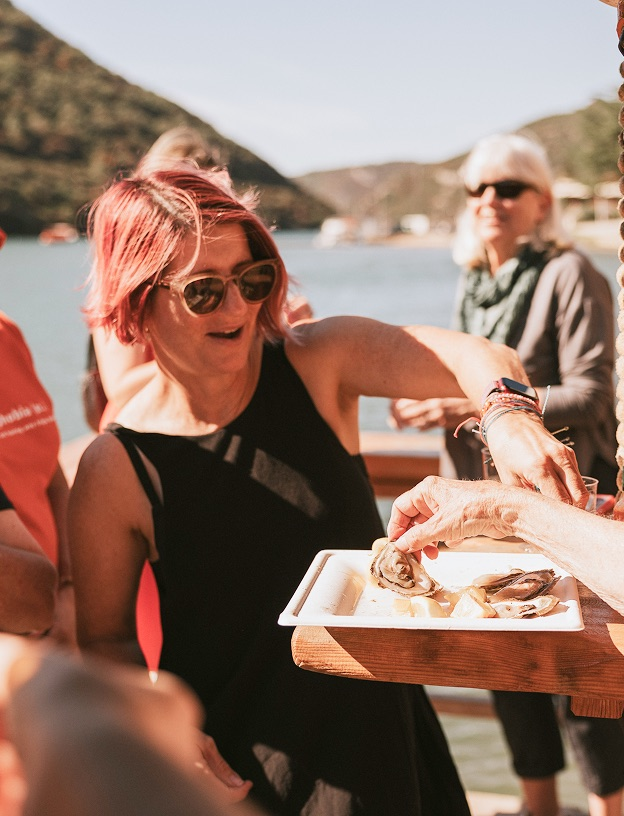
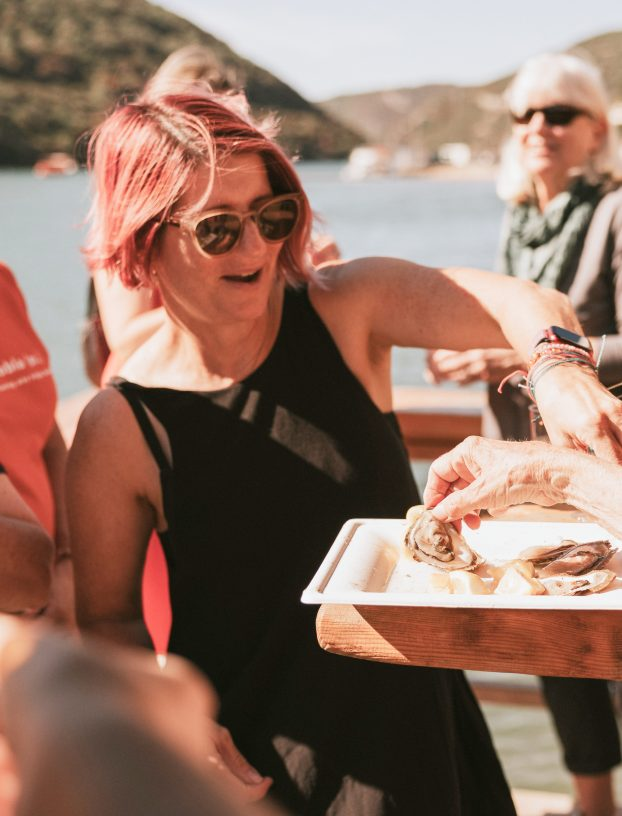
Use hand-framed crops for the testimonial photos
Six crops exported from the Figma framing replace the CSS focus-point
workaround: a portrait one per guest for the side-by-side card, and a
3:2 "-wide" one the <picture> swaps in below 900px, framed so the three
pairs of eyes share a line (Marney's head is no longer at the edge).
Mimi's portrait goes from a 312px source to 622px. The stacked photo is
flex: none so a shorter quote no longer stretches it out of 3:2.

diff --git a/index.html b/index.html
@@ -11,8 +11,8 @@
 <link href="https://fonts.googleapis.com/css2?family=Libre+Baskerville:ital,wght@0,400;0,700;1,400&family=Raleway:ital,wght@0,400;0,500;0,600;0,700;1,400&display=swap" rel="stylesheet">
 <link rel="stylesheet" href="https://use.hugeicons.com/font/icons.css" crossorigin="anonymous">
 
-<link rel="stylesheet" href="css/base.css?v=202611172200">
-<link rel="stylesheet" href="css/home.css?v=202611172200">
+<link rel="stylesheet" href="css/base.css?v=202611172310">
+<link rel="stylesheet" href="css/home.css?v=202611172310">
 <!-- Retreat data + the one card component every retreat card is rendered
      by. Classic scripts so the prototype still works over file://.
      Order matters: the catalogs load before the data, the data before
@@ -300,7 +300,7 @@
             </figcaption>
           </div>
           <span class="quote-card__divider" aria-hidden="true"></span>
-          <img class="quote-card__photo" style="--focus-y: 36%" src="images/quote-amanda.jpg" alt="Amanda smiling on a boat, being handed a plate of fresh oysters">
+          <picture><source media="(max-width: 899px)" srcset="images/quote-amanda-wide.jpg"><img class="quote-card__photo" src="images/quote-amanda.jpg" alt="Amanda smiling on a boat, being handed a plate of fresh oysters"></picture>
         </figure>
         <figure class="quote-card">
           <div class="quote-card__text">
@@ -311,7 +311,7 @@
             </figcaption>
           </div>
           <span class="quote-card__divider" aria-hidden="true"></span>
-          <img class="quote-card__photo" style="--focus-y: 0%" src="images/quote-marney.jpg" alt="Marney enjoying a meal on a sunlit terrace">
+          <picture><source media="(max-width: 899px)" srcset="images/quote-marney-wide.jpg"><img class="quote-card__photo" src="images/quote-marney.jpg" alt="Marney enjoying a meal on a sunlit terrace"></picture>
         </figure>
         <figure class="quote-card">
           <div class="quote-card__text">
@@ -322,7 +322,7 @@
             </figcaption>
           </div>
           <span class="quote-card__divider" aria-hidden="true"></span>
-          <img class="quote-card__photo" style="--focus-y: 6%" src="images/quote-mimi.jpg" alt="Mimi laughing outdoors in a green dress">
+          <picture><source media="(max-width: 899px)" srcset="images/quote-mimi-wide.jpg"><img class="quote-card__photo" src="images/quote-mimi.jpg" alt="Mimi laughing outdoors in a green dress"></picture>
         </figure>
       </div>
       <button class="rail__arrow rail__arrow--next" type="button" aria-label="Next testimonial">

diff --git a/css/home.css b/css/home.css
@@ -1298,6 +1298,9 @@
   flex-shrink: 0;
   border-left: 1px solid var(--stone-300);
 }
+/* The <picture> wrapper stays out of layout, so the <img> is still the
+   card's flex item. */
+.quote-card picture { display: contents; }
 .quote-card__photo {
   flex: 1 1 0;
   min-width: 0;
@@ -1320,10 +1323,9 @@
   .rail--quotes { --card-w: min(420px, calc(100vw - 2 * 16px - 32px)); --card-h: auto; }
   .quote-card { flex-direction: column; height: auto; }
   .quote-card__divider { width: auto; height: 1px; align-self: stretch; border-left: none; border-top: 1px solid var(--stone-300); }
-  /* Portrait photos cropped to 3:2. Each <img> sets its own --focus-y
-     so the three pairs of eyes land on the same line, ~40% down the
-     frame, with some air above the head. */
-  .quote-card__photo { align-self: stretch; aspect-ratio: 3 / 2; object-position: center var(--focus-y, 20%); }
+  /* The <picture> swaps in a 3:2 "-wide" crop here, framed by hand so
+     the three pairs of eyes sit on the same line. */
+  .quote-card__photo { flex: none; align-self: stretch; aspect-ratio: 3 / 2; }   /* flex: none keeps 3:2 when a shorter quote leaves spare height */
 }
 
 /* ============================================================

diff --git a/locationpage-iceland.html b/locationpage-iceland.html
@@ -10,9 +10,9 @@
 <link rel="preconnect" href="https://fonts.gstatic.com" crossorigin>
 <link href="https://fonts.googleapis.com/css2?family=Libre+Baskerville:ital,wght@0,400;0,700;1,400&family=Raleway:ital,wght@0,400;0,500;0,600;0,700;1,400&display=swap" rel="stylesheet">
 
-<link rel="stylesheet" href="css/base.css?v=202611172200">
-<link rel="stylesheet" href="css/retreat.css?v=202611172200">
-<link rel="stylesheet" href="css/location.css?v=202611172200">
+<link rel="stylesheet" href="css/base.css?v=202611172310">
+<link rel="stylesheet" href="css/retreat.css?v=202611172310">
+<link rel="stylesheet" href="css/location.css?v=202611172310">
 <!-- Retreat data + the one card component every retreat card is rendered
      by. Classic scripts so the prototype still works over file://.
      Order matters: the catalogs load before the data, the data before

diff --git a/retreats.html b/retreats.html
@@ -10,8 +10,8 @@
 <link rel="preconnect" href="https://fonts.gstatic.com" crossorigin>
 <link href="https://fonts.googleapis.com/css2?family=Libre+Baskerville:ital,wght@0,400;0,700;1,400&family=Raleway:ital,wght@0,400;0,500;0,600;0,700;1,400&display=swap" rel="stylesheet">
 
-<link rel="stylesheet" href="css/base.css?v=202611172200">
-<link rel="stylesheet" href="css/retreats.css?v=202611172200">
+<link rel="stylesheet" href="css/base.css?v=202611172310">
+<link rel="stylesheet" href="css/retreats.css?v=202611172310">
 <!-- Retreat data + the one card component every retreat card is rendered
      by. Classic scripts so the prototype still works over file://.
      Order matters: the catalogs load before the data, the data before

diff --git a/teacher-alicia-delaney.html b/teacher-alicia-delaney.html
@@ -11,8 +11,8 @@
 <link href="https://fonts.googleapis.com/css2?family=Libre+Baskerville:ital,wght@0,400;0,700;1,400&family=Raleway:ital,wght@0,400;0,500;0,600;0,700;1,400&display=swap" rel="stylesheet">
 <link rel="stylesheet" href="https://use.hugeicons.com/font/icons.css" crossorigin="anonymous">
 
-<link rel="stylesheet" href="css/base.css?v=202611172200">
-<link rel="stylesheet" href="css/people.css?v=202611172200">
+<link rel="stylesheet" href="css/base.css?v=202611172310">
+<link rel="stylesheet" href="css/people.css?v=202611172310">
 <!-- People + retreat data, and the components that render them.
      Classic scripts so the prototype still works over file://. -->
 <script src="data/locations.js?v=202611161843"></script>

diff --git a/teacher-alison-buchanan.html b/teacher-alison-buchanan.html
@@ -11,8 +11,8 @@
 <link href="https://fonts.googleapis.com/css2?family=Libre+Baskerville:ital,wght@0,400;0,700;1,400&family=Raleway:ital,wght@0,400;0,500;0,600;0,700;1,400&display=swap" rel="stylesheet">
 <link rel="stylesheet" href="https://use.hugeicons.com/font/icons.css" crossorigin="anonymous">
 
-<link rel="stylesheet" href="css/base.css?v=202611172200">
-<link rel="stylesheet" href="css/people.css?v=202611172200">
+<link rel="stylesheet" href="css/base.css?v=202611172310">
+<link rel="stylesheet" href="css/people.css?v=202611172310">
 <!-- People + retreat data, and the components that render them.
      Classic scripts so the prototype still works over file://. -->
 <script src="data/locations.js?v=202611161843"></script>

diff --git a/teacher-amy-sennett-starner.html b/teacher-amy-sennett-starner.html
@@ -11,8 +11,8 @@
 <link href="https://fonts.googleapis.com/css2?family=Libre+Baskerville:ital,wght@0,400;0,700;1,400&family=Raleway:ital,wght@0,400;0,500;0,600;0,700;1,400&display=swap" rel="stylesheet">
 <link rel="stylesheet" href="https://use.hugeicons.com/font/icons.css" crossorigin="anonymous">
 
-<link rel="stylesheet" href="css/base.css?v=202611172200">
-<link rel="stylesheet" href="css/people.css?v=202611172200">
+<link rel="stylesheet" href="css/base.css?v=202611172310">
+<link rel="stylesheet" href="css/people.css?v=202611172310">
 <!-- People + retreat data, and the components that render them.
      Classic scripts so the prototype still works over file://. -->
 <script src="data/locations.js?v=202611161843"></script>

diff --git a/teacher-bonnie-erickson.html b/teacher-bonnie-erickson.html
@@ -11,8 +11,8 @@
 <link href="https://fonts.googleapis.com/css2?family=Libre+Baskerville:ital,wght@0,400;0,700;1,400&family=Raleway:ital,wght@0,400;0,500;0,600;0,700;1,400&display=swap" rel="stylesheet">
 <link rel="stylesheet" href="https://use.hugeicons.com/font/icons.css" crossorigin="anonymous">
 
-<link rel="stylesheet" href="css/base.css?v=202611172200">
-<link rel="stylesheet" href="css/people.css?v=202611172200">
+<link rel="stylesheet" href="css/base.css?v=202611172310">
+<link rel="stylesheet" href="css/people.css?v=202611172310">
 <!-- People + retreat data, and the components that render them.
      Classic scripts so the prototype still works over file://. -->
 <script src="data/locations.js?v=202611161843"></script>

diff --git a/teacher-dawn-thie.html b/teacher-dawn-thie.html
@@ -11,8 +11,8 @@
 <link href="https://fonts.googleapis.com/css2?family=Libre+Baskerville:ital,wght@0,400;0,700;1,400&family=Raleway:ital,wght@0,400;0,500;0,600;0,700;1,400&display=swap" rel="stylesheet">
 <link rel="stylesheet" href="https://use.hugeicons.com/font/icons.css" crossorigin="anonymous">
 
-<link rel="stylesheet" href="css/base.css?v=202611172200">
-<link rel="stylesheet" href="css/people.css?v=202611172200">
+<link rel="stylesheet" href="css/base.css?v=202611172310">
+<link rel="stylesheet" href="css/people.css?v=202611172310">
 <!-- People + retreat data, and the components that render them.
      Classic scripts so the prototype still works over file://. -->
 <script src="data/locations.js?v=202611161843"></script>

diff --git a/teacher-genevieve-morin.html b/teacher-genevieve-morin.html
@@ -11,8 +11,8 @@
 <link href="https://fonts.googleapis.com/css2?family=Libre+Baskerville:ital,wght@0,400;0,700;1,400&family=Raleway:ital,wght@0,400;0,500;0,600;0,700;1,400&display=swap" rel="stylesheet">
 <link rel="stylesheet" href="https://use.hugeicons.com/font/icons.css" crossorigin="anonymous">
 
-<link rel="stylesheet" href="css/base.css?v=202611172200">
-<link rel="stylesheet" href="css/people.css?v=202611172200">
+<link rel="stylesheet" href="css/base.css?v=202611172310">
+<link rel="stylesheet" href="css/people.css?v=202611172310">
 <!-- People + retreat data, and the components that render them.
      Classic scripts so the prototype still works over file://. -->
 <script src="data/locations.js?v=202611161843"></script>

diff --git a/teacher-jamie-coffey.html b/teacher-jamie-coffey.html
@@ -11,8 +11,8 @@
 <link href="https://fonts.googleapis.com/css2?family=Libre+Baskerville:ital,wght@0,400;0,700;1,400&family=Raleway:ital,wght@0,400;0,500;0,600;0,700;1,400&display=swap" rel="stylesheet">
 <link rel="stylesheet" href="https://use.hugeicons.com/font/icons.css" crossorigin="anonymous">
 
-<link rel="stylesheet" href="css/base.css?v=202611172200">
-<link rel="stylesheet" href="css/people.css?v=202611172200">
+<link rel="stylesheet" href="css/base.css?v=202611172310">
+<link rel="stylesheet" href="css/people.css?v=202611172310">
 <!-- People + retreat data, and the components that render them.
      Classic scripts so the prototype still works over file://. -->
 <script src="data/locations.js?v=202611161843"></script>

diff --git a/teacher-jenniferlyn-chiemingo.html b/teacher-jenniferlyn-chiemingo.html
@@ -11,8 +11,8 @@
 <link href="https://fonts.googleapis.com/css2?family=Libre+Baskerville:ital,wght@0,400;0,700;1,400&family=Raleway:ital,wght@0,400;0,500;0,600;0,700;1,400&display=swap" rel="stylesheet">
 <link rel="stylesheet" href="https://use.hugeicons.com/font/icons.css" crossorigin="anonymous">
 
-<link rel="stylesheet" href="css/base.css?v=202611172200">
-<link rel="stylesheet" href="css/people.css?v=202611172200">
+<link rel="stylesheet" href="css/base.css?v=202611172310">
+<link rel="stylesheet" href="css/people.css?v=202611172310">
 <!-- People + retreat data, and the components that render them.
      Classic scripts so the prototype still works over file://. -->
 <script src="data/locations.js?v=202611161843"></script>
